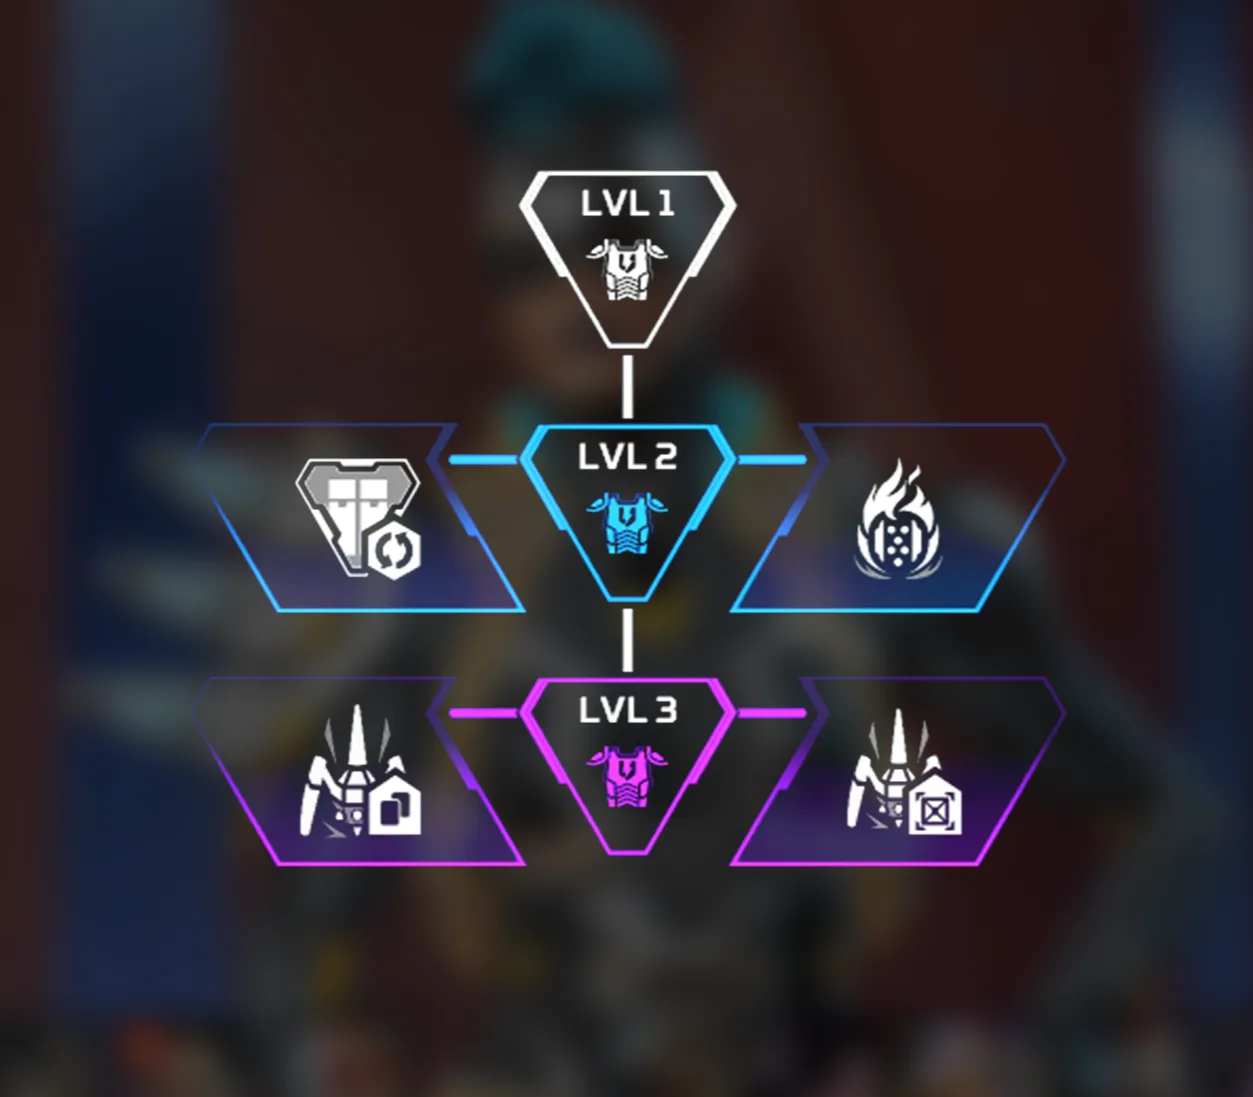
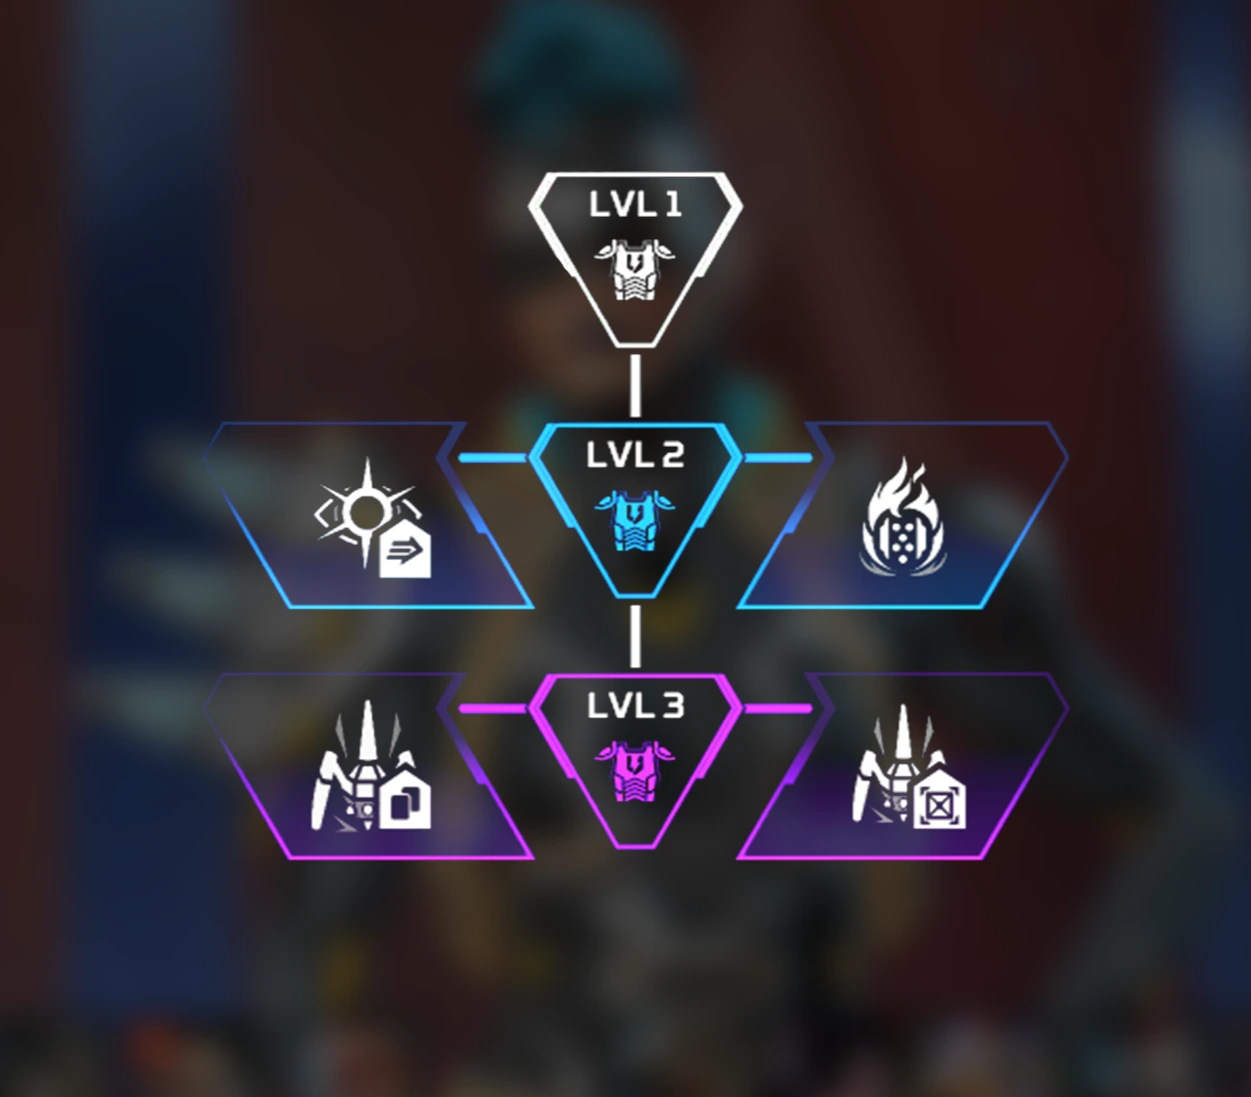
Updated to Apex Legends s26 Showdown midseason changes

diff --git a/src/components/events/UpgradeLegends/Recon/Seer.jsx b/src/components/events/UpgradeLegends/Recon/Seer.jsx
@@ -39,24 +39,24 @@ function Upgrade() {
         <div className={styles.SensitiveZone}>
             <div className={styles.Zone1}>
                 <SensitiveZone
-                    title="ARTIST'S REACH"
-                    description="Increase the throw range of Ultimate by 20 meters."
+                    title="LASTING BEATS"
+                    description="Enemies who leave the dome have their locations shown for 5s."
                     top={-10}
                     left={-460}
                 />
             </div>
             <div className={styles.Zone2}>
                 <SensitiveZone
-                    title="ULTIMATE COOLDOWN"
-                    description="Reduce Ultimate cooldown by 20%."
+                    title="HOME BASE"
+                    description="Tac recharges 4x as fast in your Exhibit sphere."
                     top={-10}
                     left={100}
                 />
             </div>
             <div className={styles.Zone3}>
                 <SensitiveZone
-                    title2="LONG VIEW"
-                    description="Increase Passive and Tactical range to 75m."
+                    title2="ENERGIZING FOCUS"
+                    description="Regen 25 shields when hitting an enemy with Tac."
                     top={100}
                     left={-460}
                 />
@@ -64,7 +64,7 @@ function Upgrade() {
             <div className={styles.Zone4}>
                 <SensitiveZone
                     title2="SPLIT FOCUS"
-                    description="+1 Tac charge and -50% Silence duration."
+                    description="+1 Tac charge."
                     top={100}
                     left={100}
                 />

diff --git a/src/components/events/UpgradeLegends/Skirmisher/Ash.jsx b/src/components/events/UpgradeLegends/Skirmisher/Ash.jsx
@@ -39,16 +39,16 @@ function Upgrade() {
         <div className={styles.SensitiveZone}>
             <div className={styles.Zone1}>
                 <SensitiveZone
-                    title="DUAL BREACH"
-                    description="Adds additional ult charge."
+                    title="ULTIMATE COOLDOWN"
+                    description="Reduces Phase Breach cooldown by 30s."
                     top={-10}
                     left={-460}
                 />
             </div>
             <div className={styles.Zone2}>
                 <SensitiveZone
-                    title="MARKED FOR DEATH"
-                    description="Reveals enemy deathboxes on your map."
+                    title="LONGER REACH"
+                    description="Increases Phase Breach range by 25m."
                     top={-10}
                     left={100}
                 />

diff --git a/src/routes/index.jsx b/src/routes/index.jsx
@@ -1,9 +1,7 @@
 import {
     createBrowserRouter,
-    RouterProvider, BrowserRouter as Router
+    RouterProvider
 } from "react-router-dom";
-
-import Navbar from './../components/Navbar';
 
 import Home from "../views/Home";
 import Upgrades from "../views/Upgrades";
@@ -11,23 +9,19 @@ import Error404 from "../views/Error404";
 
 const router = createBrowserRouter([
     {
-        path: '/maps',
-        element: <Home />,
+        path: '/',
+        element: <Upgrades/>,
         errorElement: <Error404 />
     },
     {
-        path: '/',
-        element: <Upgrades />,
+        path: '/maps',
+        element: <Home/>,
         errorElement: <Error404 />
     },
     {
         path: '*',
         element: <Error404 />
     },
-
-    <Router>
-        <Navbar />
-    </Router>
 
 ]);
 

diff --git a/src/components/events/UpgradeLegends/Assault/Maggie.jsx b/src/components/events/UpgradeLegends/Assault/Maggie.jsx
@@ -39,8 +39,8 @@ function Upgrade() {
         <div className={styles.SensitiveZone}>
             <div className={styles.Zone1}>
                 <SensitiveZone
-                    title="SHOTS SHOTS SHOTS"
-                    description="Auto-Reload shotguns on knock."
+                    title="GUNRUNNING"
+                    description="Passive movement speed increase also works with SMGs and Pistols."
                     top={-10}
                     left={-460}
                 />

diff --git a/src/components/events/UpgradeLegends/Recon/Sparrow.jsx b/src/components/events/UpgradeLegends/Recon/Sparrow.jsx
@@ -40,7 +40,7 @@ function Upgrade() {
             <div className={styles.Zone1}>
                 <SensitiveZone
                     title="EXTRA TRAPS"
-                    description="Gain an additional Tactical charge and +2 traps in world."
+                    description="Gain an additional Tactical charge and +1 traps in world."
                     top={-10}
                     left={-460}
                 />

diff --git a/README.md b/README.md
@@ -36,7 +36,7 @@ This will initialize the server and you can access the app in your browser with 
 
 **LEGENDS UPGRADES** 
 
-*Updated S25 Prodigy*
+*Updated S26 Showdown*
 
 ![image](https://github.com/user-attachments/assets/bf26ac5a-c6fc-4b2d-8887-5326f0bb9523)
 
